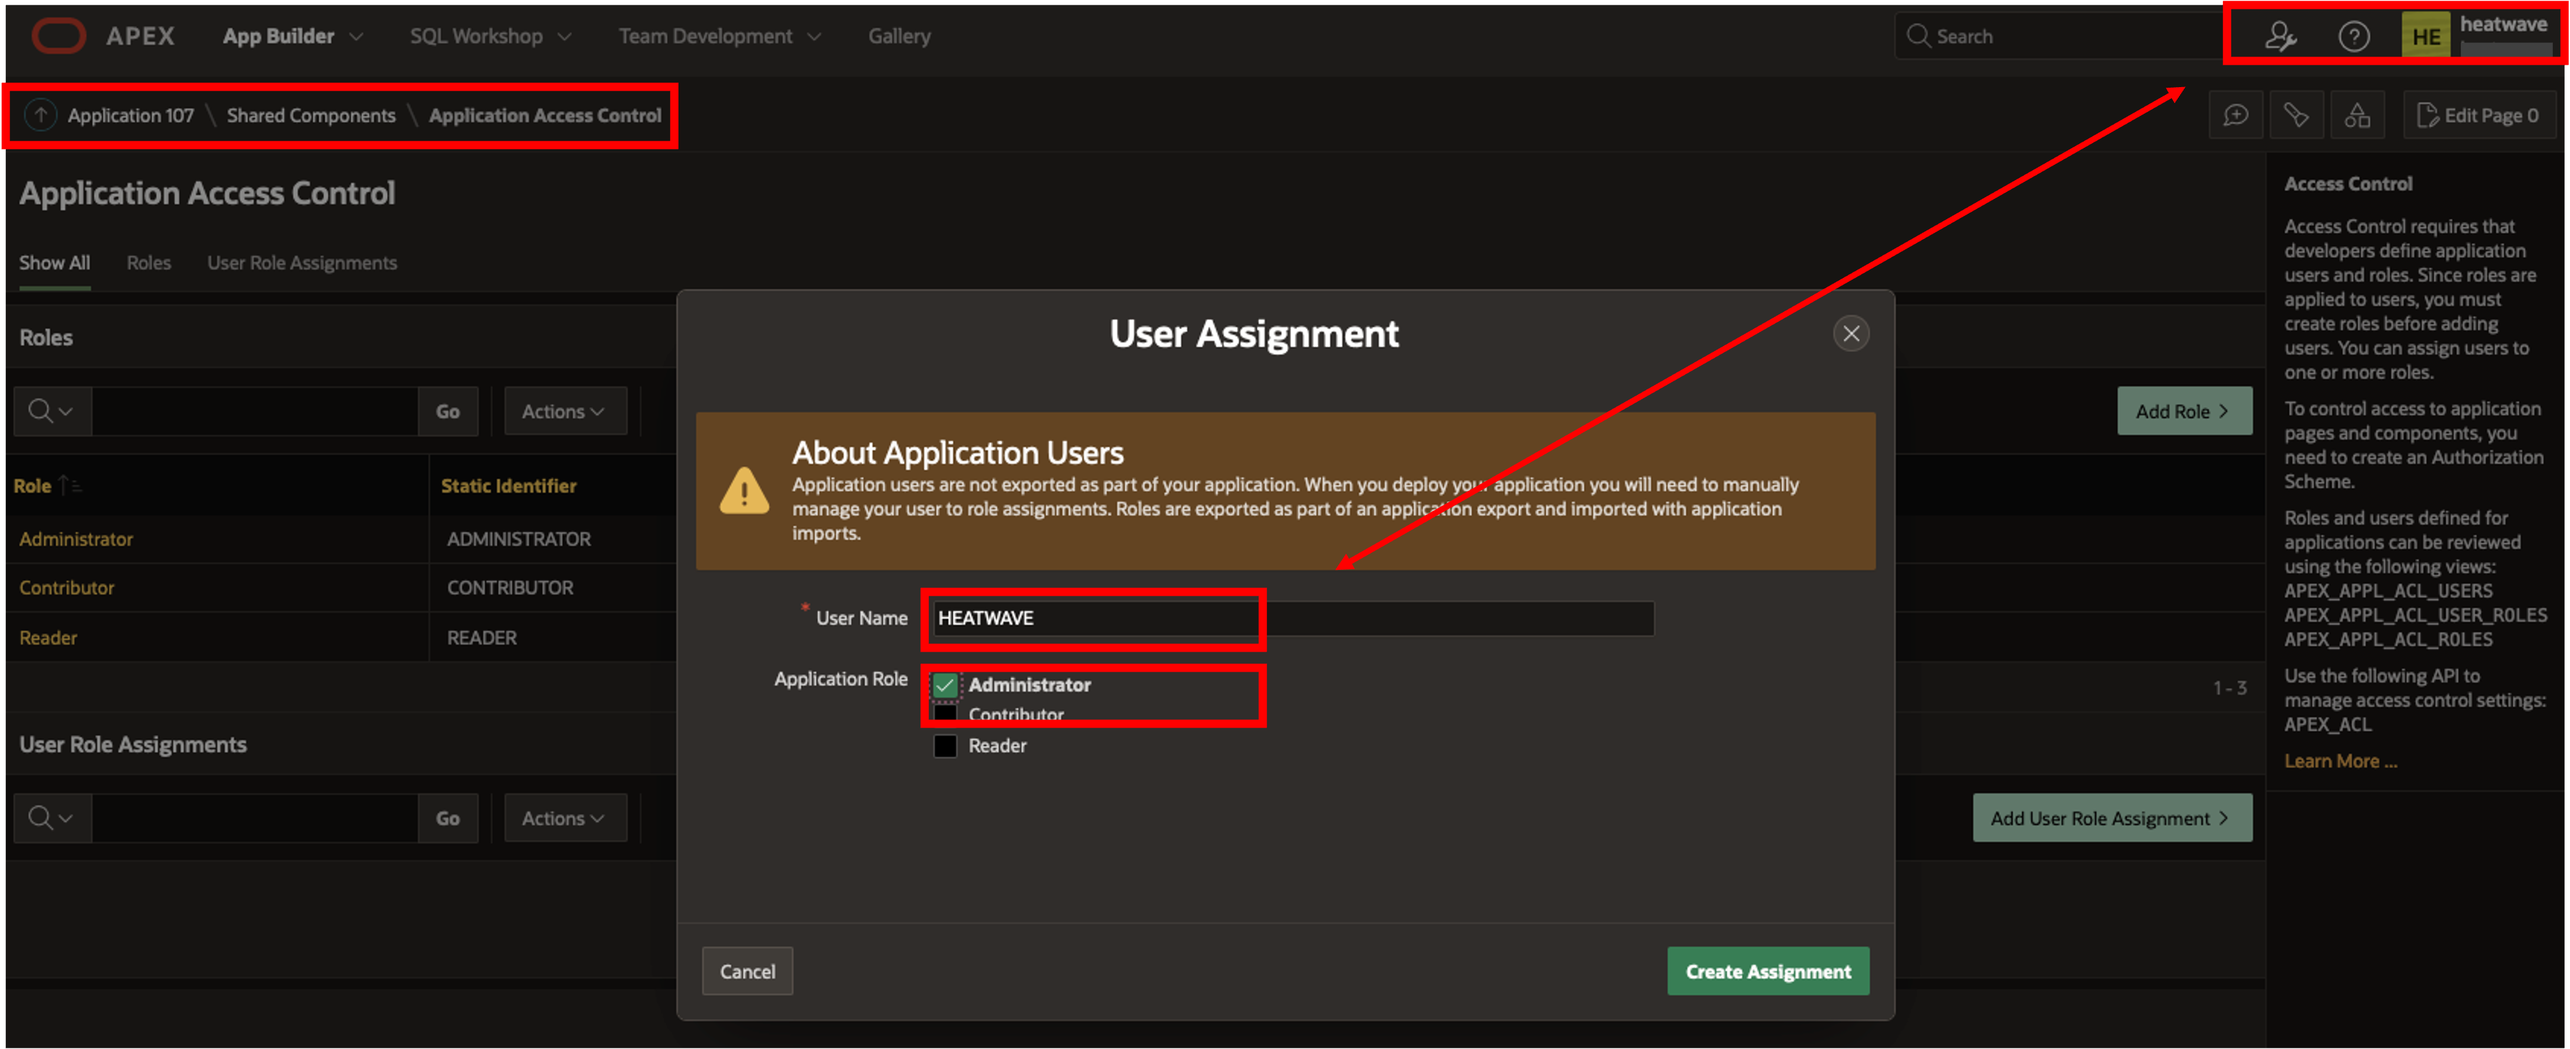
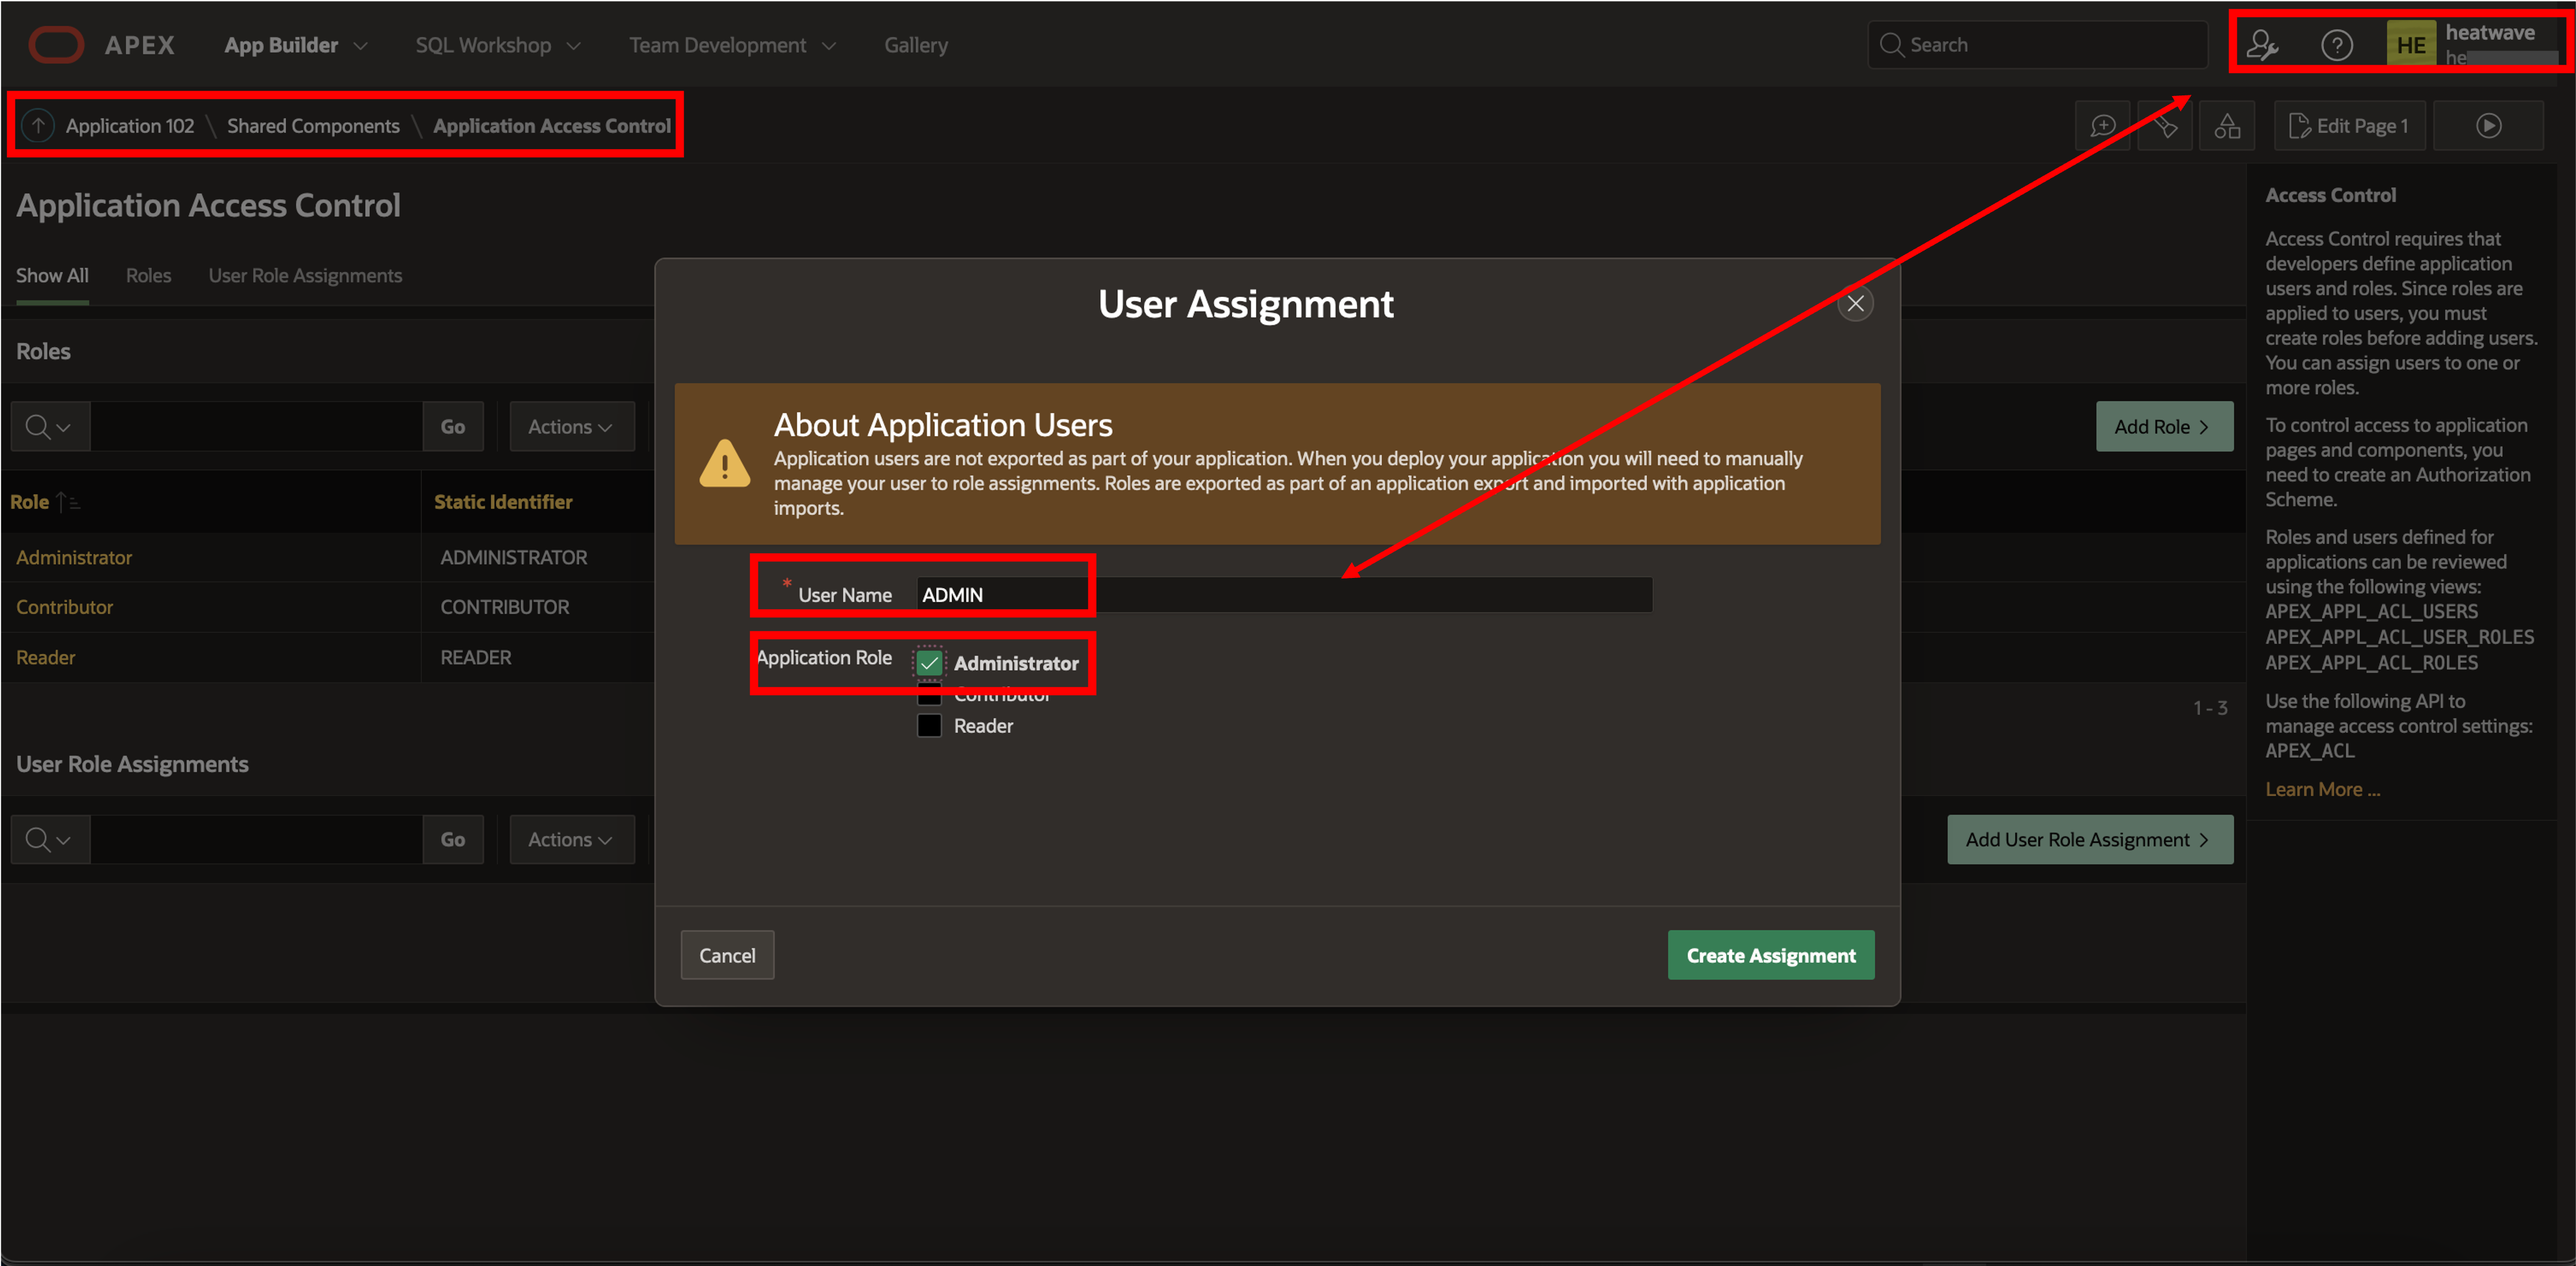
LWMS ID 11507 Instructions Improvement
Improve Lab Instructions for Lab 10
Update Images for lab 9

diff --git a/heatwave-movie-stream/app-configure-apex/app-configure-apex.md b/heatwave-movie-stream/app-configure-apex/app-configure-apex.md
@@ -50,19 +50,31 @@ In this lab, you will be guided through the following tasks:
 
     ![APEX Import](./images/apex-import-moviehub.png "apex-import-moviehub ")
 
-    b. Select the downloaded file **MovieHub.zip** . Click Next and Install Application
+    b. Select the downloaded file **MovieHub.zip** . Click on **Next** two times
 
-    c. Click on Edit Application after the application ends installing
+    c. Click **Install Application**
+
+    ![APEX Import Install](./images/apex-import-install-moviehub.png "apex-import-install-moviehub ")
+
+    d. Click on Edit Application after the application ends installing
 
     ![MovieHub App Installed](./images/apex-app-installed.png "apex-app-installed ")
 
-## Task 3: Modify the RESTful Service Endpoint for the App
+## Task 3: Modify the REST Enabled SQL Endpoint for the App
 
-The imported app will import a broken RESTful Endpoint from the export source
+The imported app will import a broken REST Enabled SQL Endpoint from the export source
 
-1. Navigate to RESTful Services
+1. Navigate to **REST Enabled SQL**
 
-    Select the Endpoint that was imported "hw-endpoint-rest"
+    a. Navigate to the Workspace Utilities from the App Builder Menu
+
+    ![Workspace Utilities](./images/apex-menu-workspace-utilities.png "apex-menu-workspace-utilities ")
+
+    b. Click on **REST Enabled SQL Services**
+
+    ![workspace utilities rest services](./images/workspace-utilities-rest-services.png "workspace-utilities-rest-services ")
+
+    c. Select the Endpoint that was imported "hw-endpoint-rest"
 
     ![RESTful services endpoints](./images/restful-services-endpoints-menu.png "restful-services-endpoints-menu ")
 
@@ -86,7 +98,7 @@ As this is an imported app, your current workspace user will not have administra
 
     b. Go to Application Access Control
 
-    c. Click on Add User Role Assignment. Assign your APEX user, **administrator role**. This administrator account would be referred as '**admin account**'
+    c. Click on Add User Role Assignment. Create a user 'ADMIN' and assign **administrator role** to it. This administrator account would be referred as '**admin account**'
 
     ![Add User Role Assignment for APEX user](./images/apex-add-role-assignment.png "apex-add-role-assignment ")
 

diff --git a/heatwave-movie-stream/apex-heatwave/apex-heatwave.md b/heatwave-movie-stream/apex-heatwave/apex-heatwave.md
@@ -212,17 +212,17 @@ Using APEX, developers can quickly develop and deploy compelling apps that solve
 1. Create and Launch APEX
 
     a.
-    ![MDS](./images/start-apex-deploy.png "start apex deploy")
-    ![MDS](./images/continue-apex-deploy.png "continue apex deploy")
+    ![start apex deploy](./images/start-apex-deploy.png "start apex deploy ")
+    ![continue apex deploy](./images/continue-apex-deploy.png "continue apex deploy ")
     b. Choose movies compartment and set APEX password
-    ![MDS](./images/set-password-apex-deploy.png "set apex password")
-    ![MDS](./images/completed-apex-deploy.png "completed apex deploy")
+    ![set apex password](./images/set-password-apex-deploy.png "set apex password")
+    ![completed apex deploy](./images/completed-apex-deploy.png "completed apex deploy")
 
 2. Create Workspace
 
     a.
-    ![MDS](./images/login-apexd.png "login apexd")
-    ![MDS](./images/create-apex-workspace.png "create apex workspace")
+    ![login apexd](./images/login-apexd.png "login apexd ")
+    ![create apex workspace](./images/create-apex-workspace.png "create apex workspace )
     b. Name the APEX workspace
 
     ```bash
@@ -230,9 +230,9 @@ Using APEX, developers can quickly develop and deploy compelling apps that solve
     ```
 
     c. Set an Admin user and password for the workspace
-    ![MDS](./images/name-apex-workspace.png "name apex workspace")
+    ![name apex workspace](./images/name-apex-workspace.png "name apex workspace")
     d. Log out from APEX
-    ![MDS](./images/apex-logout.png "apex logout")
+    ![apex logout](./images/apex-logout.png "apex logout")
 
 
 ## Task 6 Create APEX Credentials
